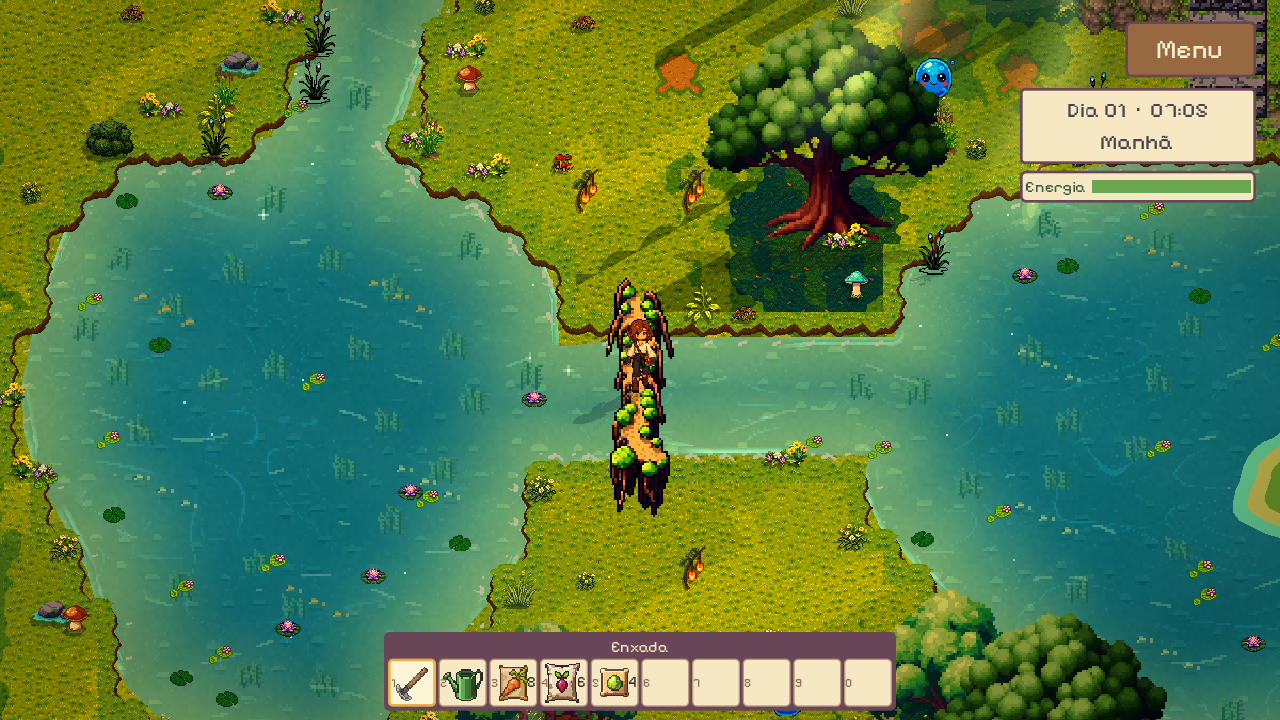
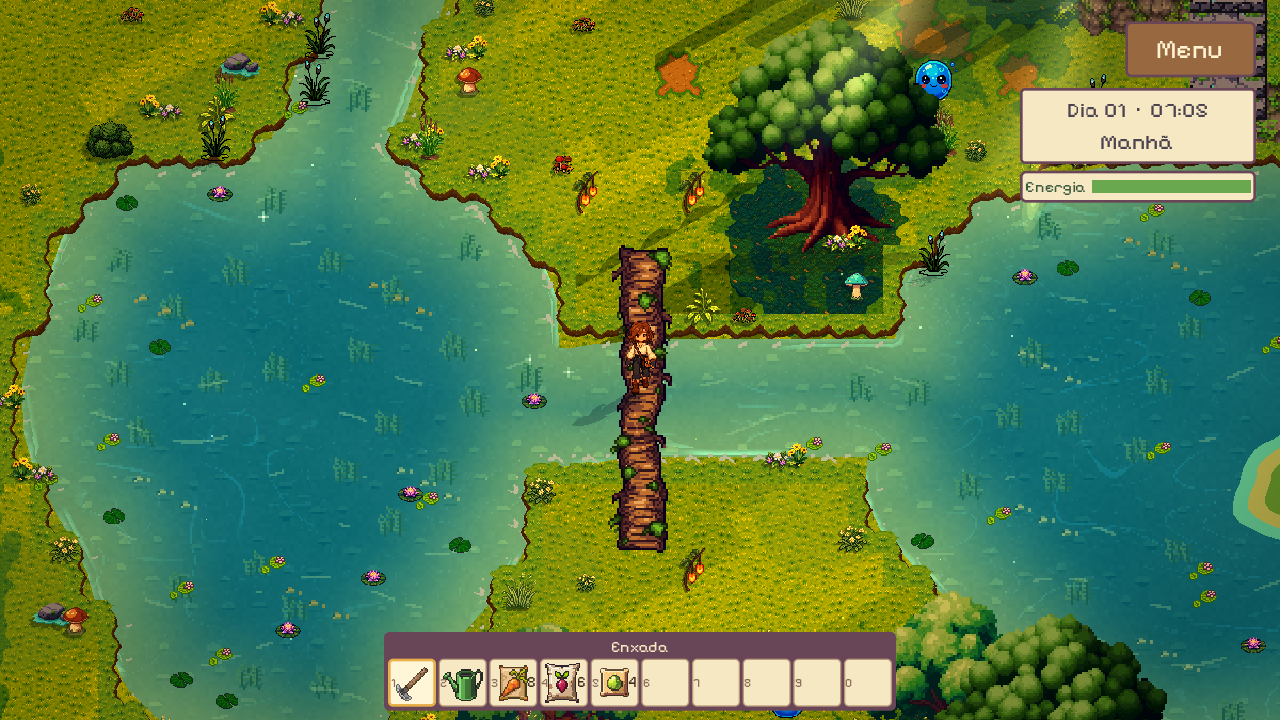
feat(visual): ponte de raízes vertical refeita no estilo do arco aprovado
A anterior tinha topo bege de terra e musgo verde-limão saturado, destoando do
arco aprovado. Nova: raízes trançadas com veio de madeira, musgo discreto e
bordas escuras (PixelLab, prompt guiado pela análise). 5 travessias, 0 falhas.

diff --git a/docs/ASSET_MANIFEST.md b/docs/ASSET_MANIFEST.md
@@ -213,6 +213,6 @@ Gerado no PixelLab (`create_map_object`, 128×128, high top-down, high detail, d
 | Arquivo | Tamanho | SHA-256 |
 |---|---|---|
[3 lines of base64/hex data omitted]
 
-Arco de raízes entrelaçadas gerado no PixelLab (`create_map_object`, 128×48, high top-down, high detail, detailed shading, selective outline), recortado à caixa visível. Único aprovado pelo usuário: troncos caídos, pedras, istmo e versões verticais de raízes foram rejeitados (13 gerações no total). Versão vertical (48×144, 3 variações, 1 aprovada) nas travessias oeste e leste. Desenhados por `scripts/world/natural_bridges.gd` em escala 2, espelhados em alternância.
+Arco de raízes entrelaçadas gerado no PixelLab (`create_map_object`, 128×48, high top-down, high detail, detailed shading, selective outline), recortado à caixa visível. Único aprovado pelo usuário: troncos caídos, pedras, istmo e versões verticais de raízes foram rejeitados (13 gerações no total). Versão vertical (48×144) de raízes trançadas nas travessias oeste e leste: 9 tentativas; a escolhida segue o veio de madeira, o musgo discreto e as bordas escuras do arco aprovado (as outras tinham tábuas, degraus, topo de terra ou eram finas demais; o style matching com o fundo do mapa também falhou). Desenhados por `scripts/world/natural_bridges.gd` em escala 2, espelhados em alternância.
